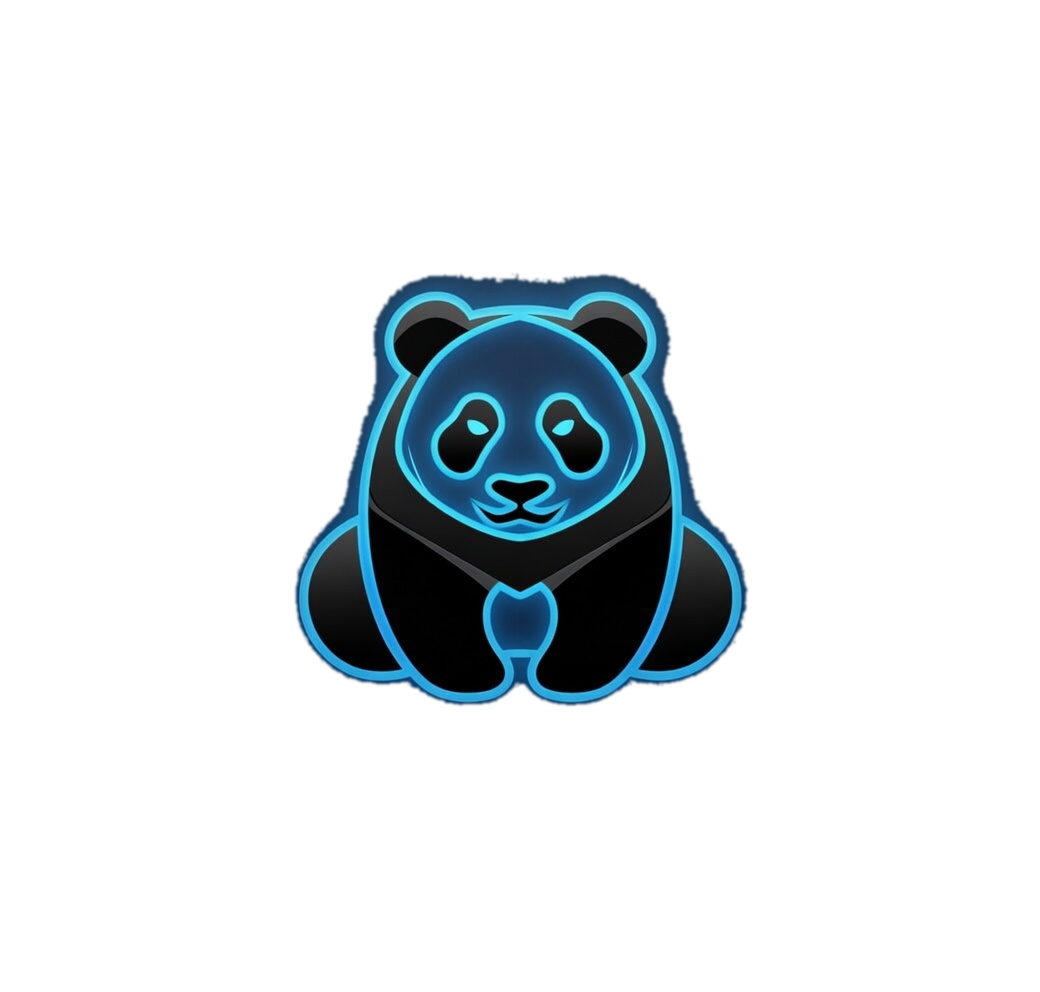
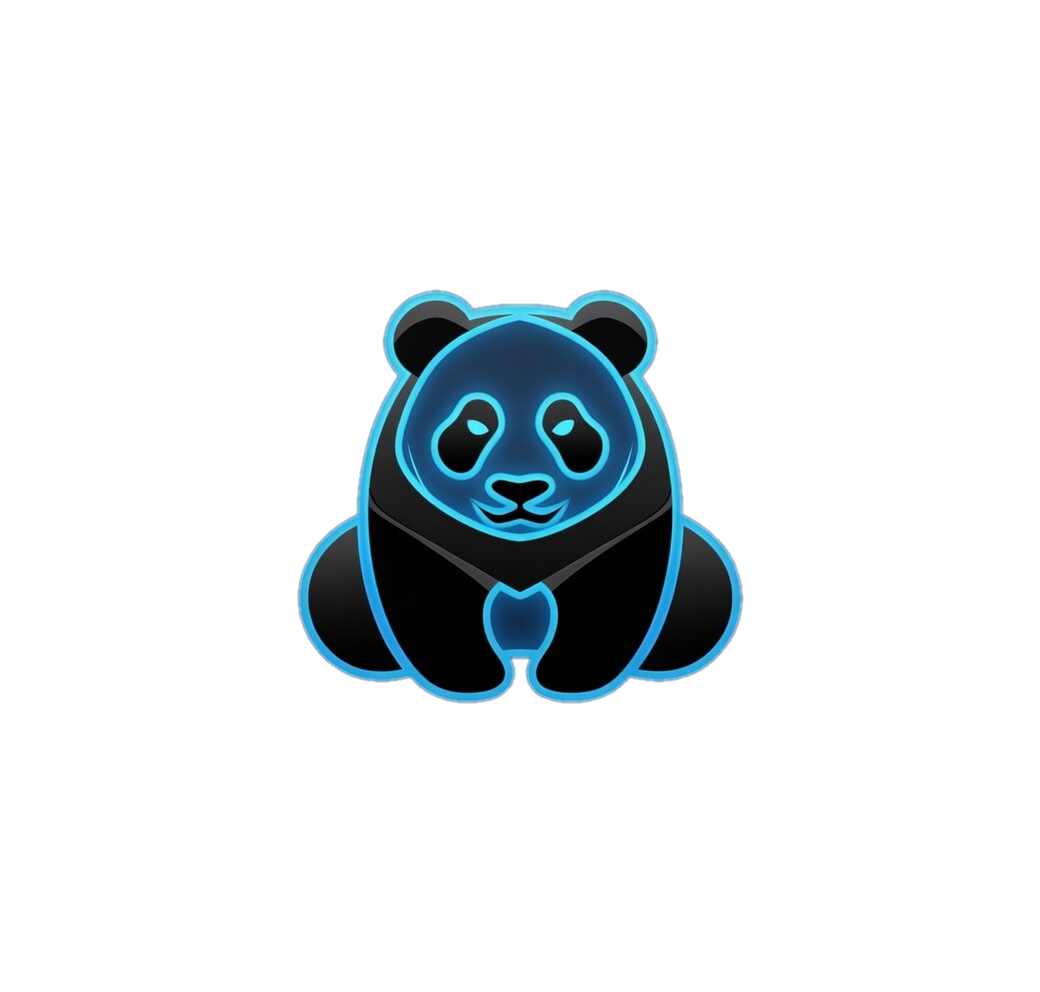
Panda hero: aggressive flood-fill + cache-buster for backdrop removal
Two fixes for the "navy/blue still visible around the panda":

1. Raised the flood-fill tolerance from 55 to 130 in color-distance
   space. The fill is naturally bounded by the cyan outline so a
   generous tolerance can't bleed into the panda — it just finishes
   cleaning up the gradient pixels near the top/bottom that were left
   behind at the lower threshold. Captured backdrop area rose from
   85.9% → 87.2%. Also added a 2-stage alpha cleanup: 1.4px Gaussian
   blur followed by a hard snap-to-opaque/transparent at <30 / >225 so
   the boundary is smooth but the fill is crisp.

2. Added ?v=3 cache-buster to both <img src=…panda-transparent.png>
   references so browsers fetch the new asset instead of reusing the
   cached older versions where edges were still visible.

diff --git a/index.html b/index.html
@@ -763,7 +763,7 @@ tr.sel-row td{background:var(--blu3);}
     <div class="split-l"><div class="tbl-wrap" id="wl-tbl-wrap"><div class="empty-det" id="wl-empty" style="min-height:200px;"><div class="ei">&#9632;</div><p>Add tickers to watchlist</p></div></div></div>
     <div class="split-r">
       <div class="det-wrap" style="display:flex;flex-direction:column;height:100%;">
-        <div class="empty-det" id="wl-det-empty"><img src="assets/panda-transparent.png" alt="" class="empty-det-panda"><p>Select a ticker to view chart</p></div>
+        <div class="empty-det" id="wl-det-empty"><img src="assets/panda-transparent.png?v=3" alt="" class="empty-det-panda"><p>Select a ticker to view chart</p></div>
         <div id="wl-chart-wrap" style="display:none;flex-direction:column;height:100%;">
           <div style="padding:6px 10px;border-bottom:var(--bdr);font-family:var(--ff-mono);font-size:11px;letter-spacing:1.5px;color:var(--amb);display:flex;justify-content:space-between;align-items:center;">
             <span id="wl-chart-title">--</span>
@@ -6948,7 +6948,7 @@ function sortTable(col){
 
 function renderScan(){
   var wrap=eid('sc-tbl-wrap');
-  if(!G.filtered.length){wrap.innerHTML='<div class="empty-det" style="min-height:400px;"><img src="assets/panda-transparent.png" alt="" class="empty-det-panda"><p>No results \u2014 run a scan first</p></div>';return;}
+  if(!G.filtered.length){wrap.innerHTML='<div class="empty-det" style="min-height:400px;"><img src="assets/panda-transparent.png?v=3" alt="" class="empty-det-panda"><p>No results \u2014 run a scan first</p></div>';return;}
 
   // Apply text search (post-filter layer so it composes with all filters)
   var q = (G.scQuery||'');